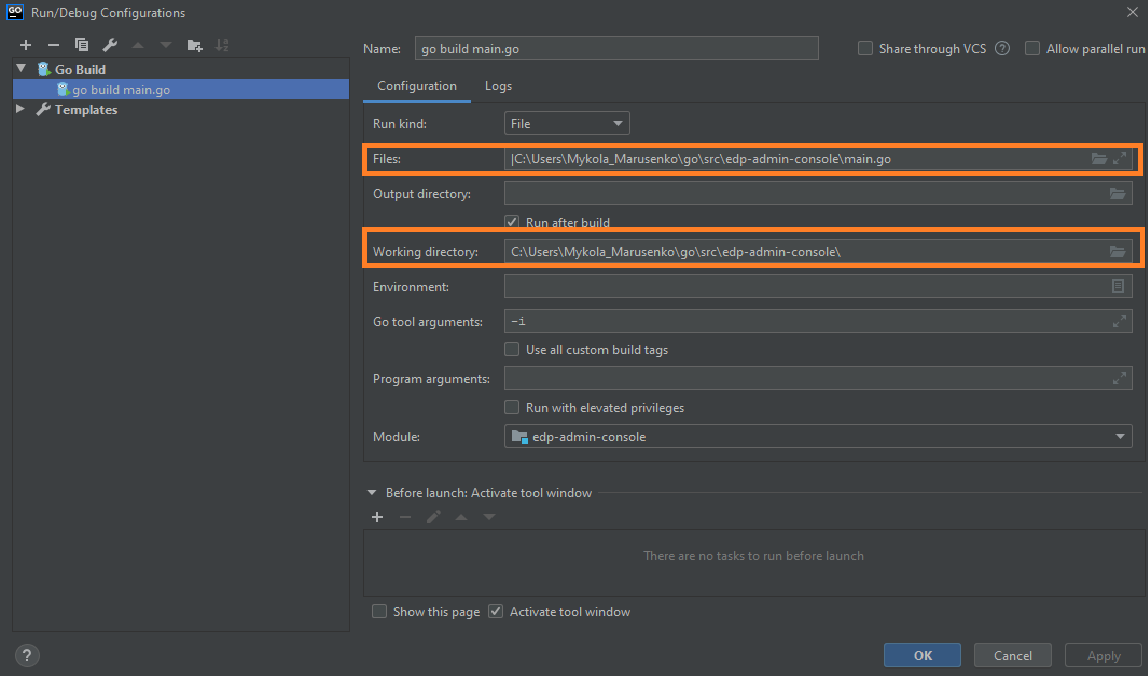
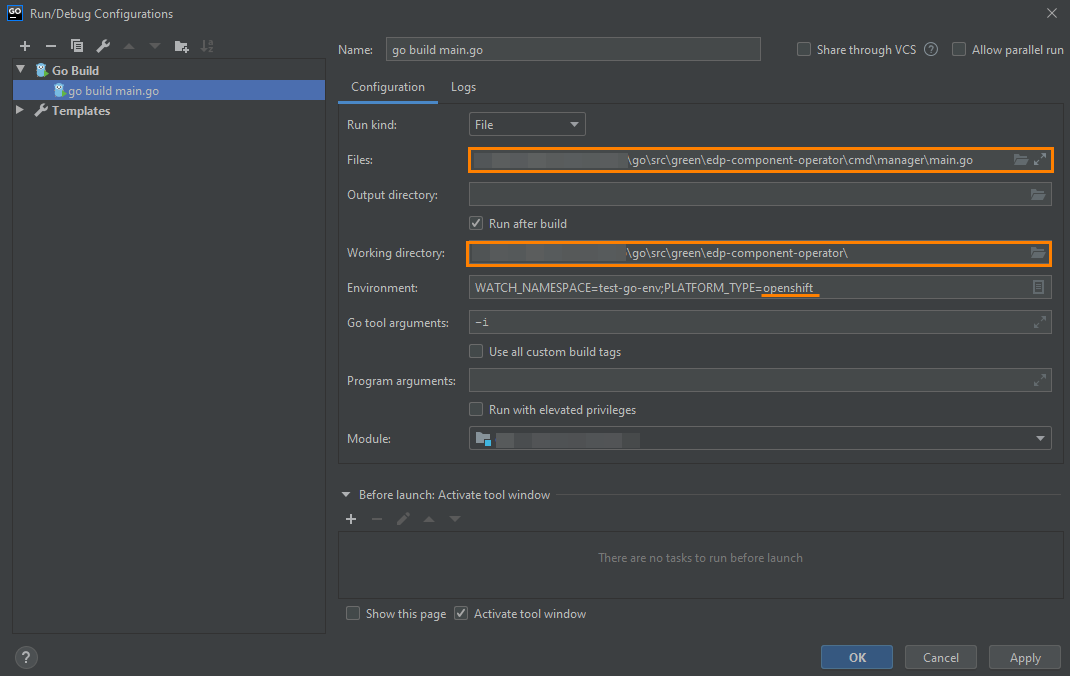
Added local deployment overview - review

diff --git a/documentation/local-development.md b/documentation/local-development.md
@@ -1,26 +1,32 @@
-## Local development
-### Requirements:
-* Go version (great than 1.13)
+## Local Development
+### Requirements
+* Golang version higher than 1.13;
 
-_**NOTE**: Make sure that environment variable GOPATH and GOROOT are added in PATH:_
-```
-export GOPATH=C:\Users\<<username>>\go
-export GOROOT=C:\Go
-```
+>_**NOTE**: The GOPATH and GOROOT environment variables should be added in PATH._
+>```
+>export GOPATH=C:\Users\<<username>>\go
+>export GOROOT=C:\Go
+>```
 
-* Configured access to the VCS (see [Gerrit Setup for Developer](https://kb.epam.com/display/EPMDEDP/Gerrit+Setup+for+Developer))
-* GoLand Intellij Idea or another IDE
+* Configured access to the VCS, for details, refer to the [Gerrit Setup for Developer](https://kb.epam.com/display/EPMDEDP/Gerrit+Setup+for+Developer) page;
+* GoLand IntelliJ IDEA or another IDE.
 
-### Running the operator:
-1. Clone repository
-2. Open folder in GoLand Intellij Idea and select Add Configuration → Go Build
-![add-config](../readme-resource/add_config.png "add-config") 
-3. Set the path to the main.go file in Files field and path to the Working directory for operator
-![build-config](../readme-resource/build_config.png "build-config") 
-4. Specify a platform name (OpenShift/Kubernetes) and selected namespace in Environment tab 
-![add-env-vars](../readme-resource/add_env_vars.png "add-env-vars") 
-5. Run ```go build main.go``` (Shift+F10)
-6. Check the operator logs in output console 
+### Operator Launch
+In order to run the operator, follow the steps below:
+
+1. Clone repository;
+2. Open folder in GoLand Intellij IDEA, click the ![add_config_button](../readme-resource/add_config_button.png "add_config_button") button and select the **Go Build** option:
+![add_configuration](../readme-resource/add_configuration.png "add_configuration") 
+3. In Configuration tab, fill in the following:
+
+    3.1. In the Field field, indicate the path to the main.go file;
+    
+    3.2. In the Working directory field, indicate the path to the operator;
+    
+    3.3. In the Environment field, specify the platform name (OpenShift/Kubernetes);
+   ![build-config](../readme-resource/build_config.png "build-config") 
+4. Run 'go build main.go' (Shift+F10);
+5. Check the operator logs in output console: 
 ```
 {"level":"info","ts":1580911729.6440392,"logger":"cmd","msg":"Go Version: go1.13.7"}
 {"level":"info","ts":1580911729.6440392,"logger":"cmd","msg":"Go OS/Arch: windows/amd64"}
@@ -32,7 +38,9 @@ export GOROOT=C:\Go
 ```
 
 ### Exceptional Cases
-After starting Go build process you see the following error: 
+##### CASE 1
+
+After starting the Go build process, the following error will appear: 
 ```
 go: finding github.com/openshift/api v3.9.0
 go: finding github.com/openshift/client-go v3.9.0
@@ -42,13 +50,15 @@ C:\Users\<<username>>\Desktop\EDP\edp-admin-console\go.mod:36: require github.co
 Compilation finished with exit code 1
 ```
 
-This problem can resolve by manual update go dependency using golang command:
+To resolve the issue, update the go dependency by applying the Golang command:
 ```
 go get github.com/openshift/api@v3.9.0
 ```
 
-In case if you have error: *Unauthorized* error in logs, check you current *KUBECONFIG* path.
-You can specify another *KUBECONFIG* path before running operator in Go build configuration (see point 4):
+##### CASE 2
+
+If you get the **Unauthorized** error in logs, check the current **KUBECONFIG** path. Before running the operator in the Go build configuration (see point 4), you can specify another **KUBECONFIG** path:
+
 ```
 WATCH_NAMESPACE=test-deploy-platform;PLATFORM_TYPE=openshift;KUBECONFIG=C:\Users\<<username>>\.kube\kubeconfig
 ```

diff --git a/README.md b/README.md
@@ -33,4 +33,4 @@ kubectl patch -n <edp_cicd_project> -f deploy/operator.yaml --local=true --patch
 * Check the <edp_cicd_project> namespace that should contain Deployment with your operator in a running status.
 
 ### Local Development
-To setup local environment for developing operator use [Local Development](documentation/local-development.md) user guide.
+In order to develop the operator, first set up a local environment. For details, please refer to the [Local Development](documentation/local-development.md) page.
